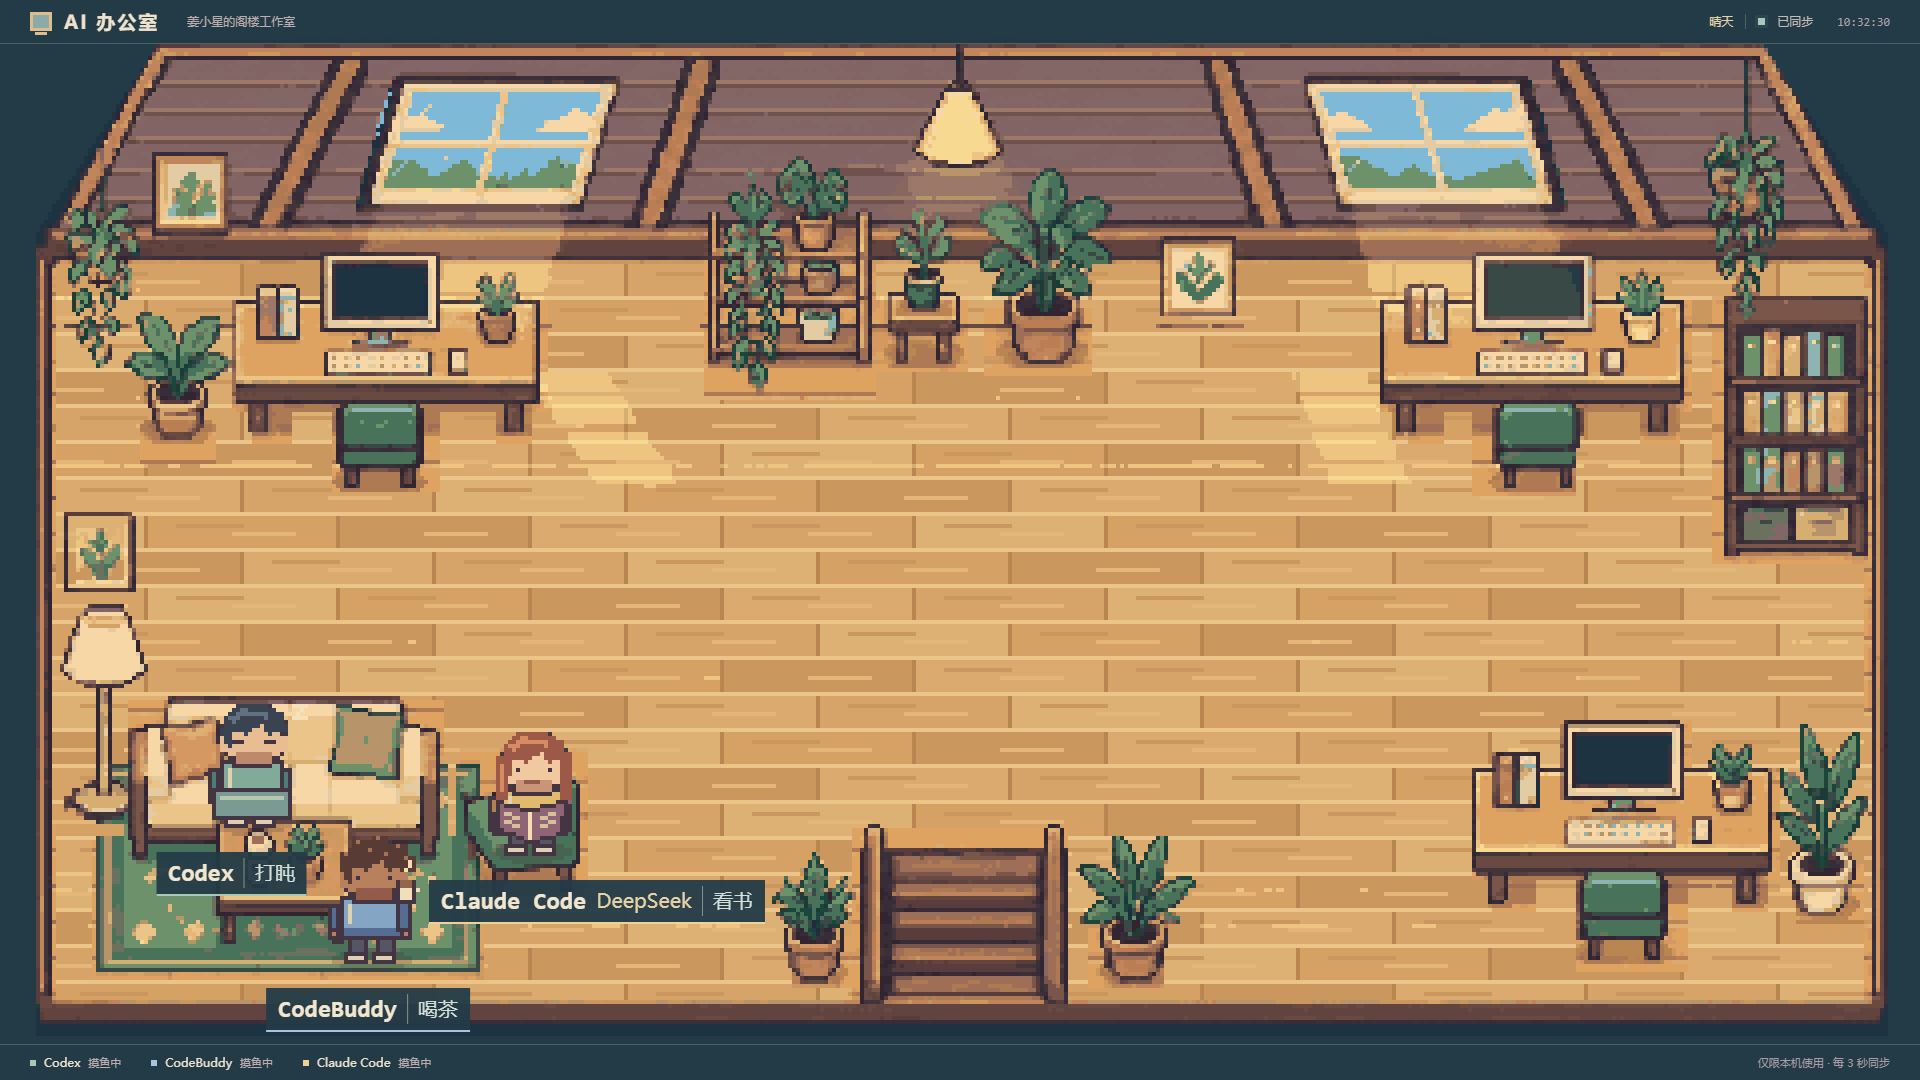
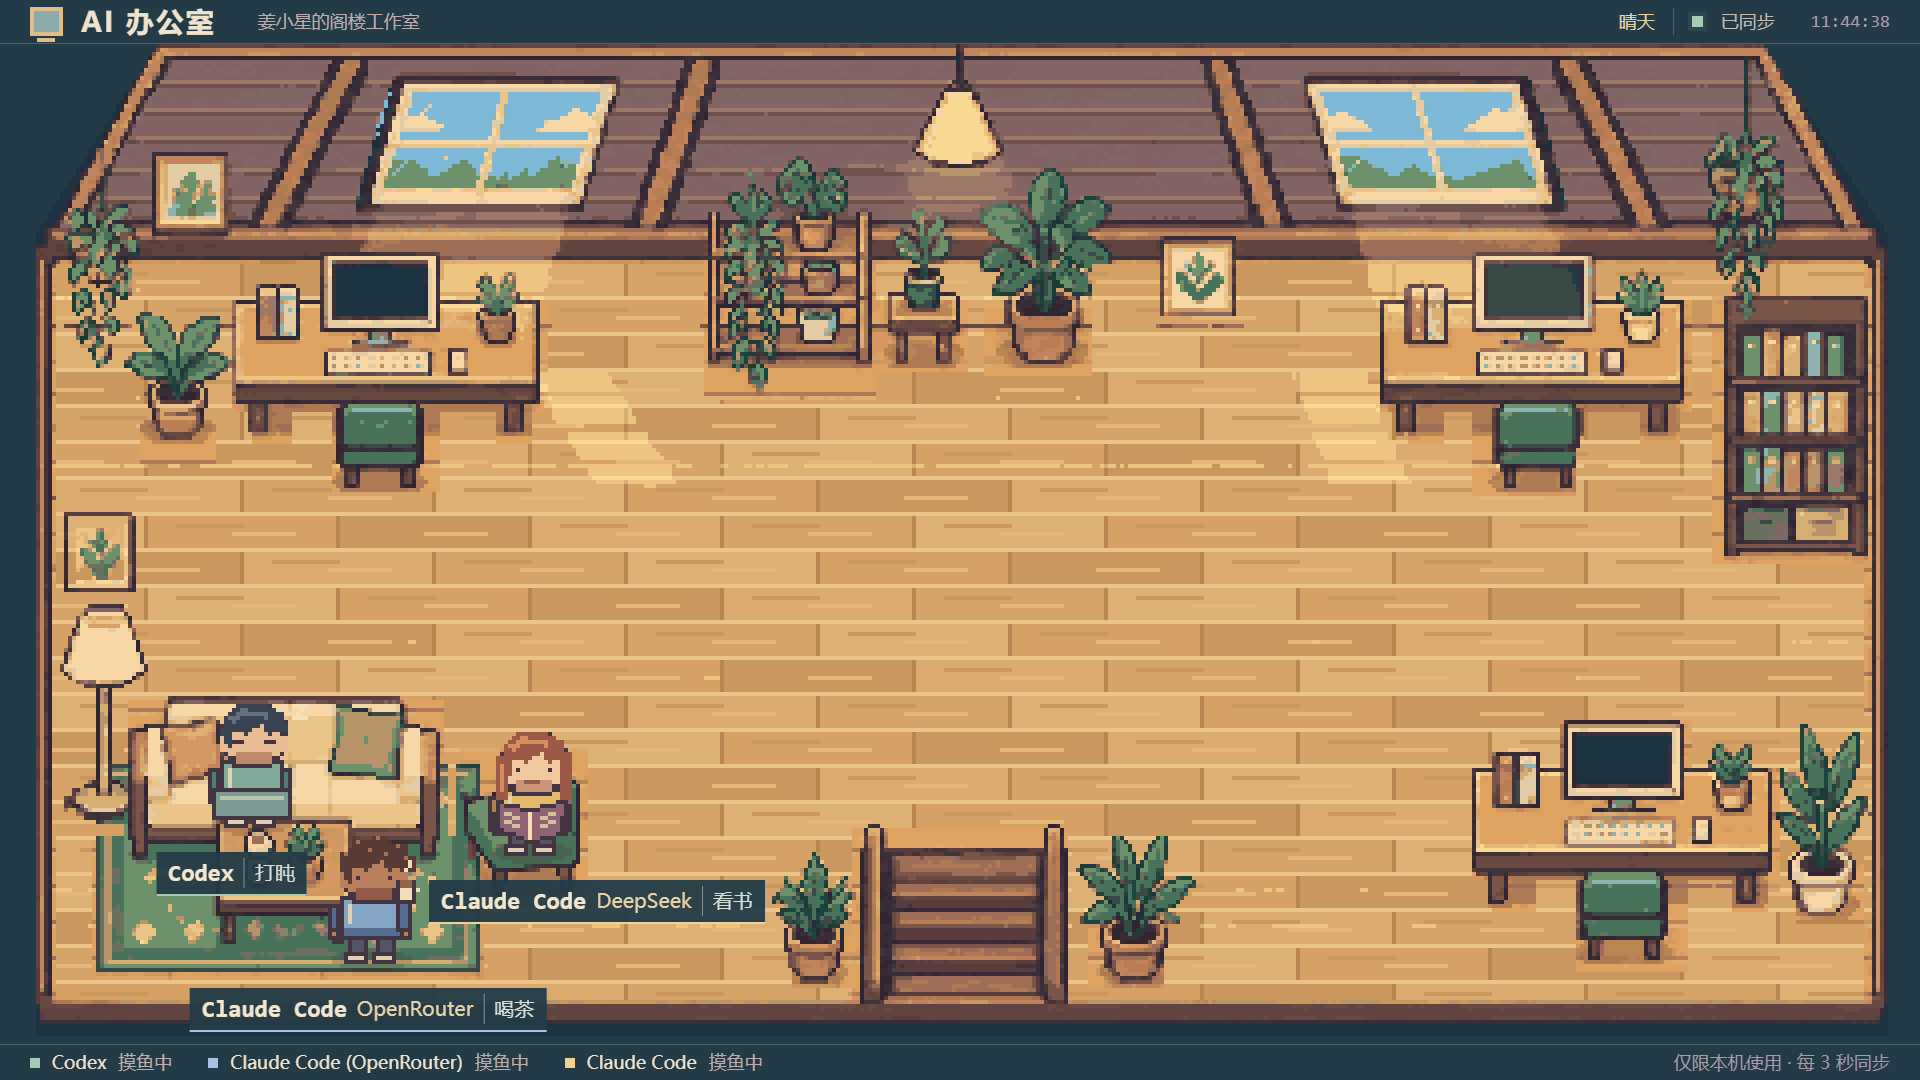
替换 CodeBuddy 角色并独立识别 Claude 启动入口
将原蓝衣工位替换为 Claude Code (OpenRouter)，保留 DeepSeek 角色和既有场景。
根据 Claude 自身或祖先进程的 cc-openrouter.cmd、cc-deepseek.cmd 标记分别判断活动，拒绝无标记及冲突归属，不读取启动脚本、环境变量或 API Key。
修复手机底栏长名称溢出，保留原有字号、天气、整数缩放和相对资源路径。
补充检测及浏览器单开、同时运行回归，更新 README 和 1920×1080 交付截图。

验证：9 项检测测试、浏览器各尺寸与 /office/ 回归、天气回归、标签拥挤及 4×4 像素检查通过。

diff --git a/static/office.js b/static/office.js
@@ -11,7 +11,7 @@
   const notice = document.getElementById('notice');
   const DESKS = [
     { id: 'codex', name: 'Codex', sprite: 'moss', color: '#a5cbb7' },
-    { id: 'codebuddy', name: 'CodeBuddy', sprite: 'sky', color: '#a6c4e1' },
+    { id: 'openrouter', name: 'Claude Code', subtitle: 'OpenRouter', rosterName: 'Claude Code (OpenRouter)', sprite: 'sky', color: '#a6c4e1' },
     { id: 'claude-code', name: 'Claude Code', subtitle: 'DeepSeek', sprite: 'sun', color: '#efd296' },
   ];
   const ACTIVITIES = { sleep: '打盹', read: '看书', tea: '喝茶', type: '敲键盘', walk: '走动' };
@@ -37,7 +37,7 @@
       ...ROOM,
       desks: [
         { id: 'codex', seat: { x: 96, y: 118 }, screen: { x: 84, y: 66, w: 23, h: 13 } },
-        { id: 'codebuddy', seat: { x: 384, y: 118 }, screen: { x: 372, y: 66, w: 23, h: 13 } },
+        { id: 'openrouter', seat: { x: 384, y: 118 }, screen: { x: 372, y: 66, w: 23, h: 13 } },
         { id: 'claude-code', seat: { x: 406, y: 237 }, screen: { x: 394, y: 184, w: 23, h: 13 } },
       ],
       blocks: [
@@ -240,7 +240,7 @@
     for(const a of actors) {
       const el=document.createElement('span');el.className='agent-status';el.style.setProperty('--agent-color',a.color);
       const dot=document.createElement('i'),name=document.createElement('span'),state=document.createElement('em');
-      name.textContent=a.name;state.textContent=a.requested===null?'连接中':a.requested==='working'?'干活中':'摸鱼中';
+      name.textContent=a.rosterName||a.name;state.textContent=a.requested===null?'连接中':a.requested==='working'?'干活中':'摸鱼中';
       el.append(dot,name,state);roster.append(el);
     }
     canvas.setAttribute('aria-label',`${weather?.snapshot().name||''}阁楼；`+actors.map(a=>`${a.name}${a.subtitle||''}：${a.requested==='working'?'干活中':'摸鱼中'}`).join('；'));

diff --git a/static/office.css b/static/office.css
@@ -51,6 +51,7 @@ h1 { margin: 0; font-size: 28px; line-height: 36px; font-weight: 700; white-spac
   .connection { flex-wrap: wrap; }
   h1 { font-size: 24px; line-height: 32px; }
   #roster { width: 100%; }
+  .agent-status { flex-wrap: wrap; row-gap: 0; max-width: 100%; }
   .nameplate { gap: 5px; padding: 3px 6px; line-height: 22px; }
   .nameplate strong { font-size: 16px; }
   .nameplate small, .nameplate span { font-size: 14px; }

diff --git a/tests/test_detectors.py b/tests/test_detectors.py
@@ -8,7 +8,7 @@ import time
 import unittest
 import urllib.request
 from pathlib import Path
-from unittest.mock import patch
+from unittest.mock import Mock, patch
 
 ROOT = Path(__file__).resolve().parents[1]
 sys.path.insert(0, str(ROOT))
@@ -29,16 +29,63 @@ class DetectorTests(unittest.TestCase):
         self.assertTrue(self.processes(0, {"name": "CODEX.EXE", "command": "codex --model local"}))
         self.assertFalse(self.processes(0, {"name": "other.exe", "command": "codex"}))
 
-    def test_codebuddy_requires_matching_process_and_all_arguments(self):
-        self.assertTrue(self.processes(1, {"name": "node.exe", "command": r"D:\npm\codebuddy-code\bin\codebuddy"}))
-        self.assertFalse(self.processes(1, {"name": "node.exe", "command": "unrelated-web-server"}))
-        self.assertFalse(self.processes(1, {"name": "node.exe", "command": "codebuddy-code readme"}))
-        self.assertTrue(self.processes(1, {"name": "codebuddy.exe", "command": "codebuddy"}))
+    def status_for(self, *items):
+        processes = [Mock(info={"pid": pid, "ppid": ppid, "name": name, "cmdline": command,
+                                "create_time": created})
+                     for pid, ppid, name, command, created in items]
+        with patch("detectors.psutil.process_iter", return_value=processes) as snapshot:
+            payload = detect_status(self.tools[1:])
+        self.assertEqual(set(snapshot.call_args.kwargs["attrs"]),
+                         {"pid", "ppid", "name", "cmdline", "create_time"})
+        self.assertEqual(set(payload), {"ts", "agents"})
+        self.assertTrue(all(set(a) == {"id", "name", "status"} for a in payload["agents"]))
+        return {a["id"]: a["status"] for a in payload["agents"]}
 
-    def test_claude_native_and_node_variants(self):
-        self.assertTrue(self.processes(2, {"name": "claude.exe", "command": "claude"}))
-        self.assertTrue(self.processes(2, {"name": "node.exe", "command": "@anthropic-ai/claude-code/cli.js"}))
-        self.assertFalse(self.processes(2, {"name": "node.exe", "command": "other/claude-code.js"}))
+    @staticmethod
+    def session(provider, base=100, native=True):
+        return [(base, 0, "cmd.exe", ["cmd.exe", "/c", rf"D:\Tools\ClaudeCode\cc-{provider}.cmd"], 1),
+                (base+1, base, "claude.exe" if native else "node.exe",
+                 ["claude.exe"] if native else ["node.exe", r"D:\npm\@anthropic-ai\claude-code\cli.js"], 2)]
+
+    def test_deepseek_and_openrouter_native_and_node_sessions_are_independent(self):
+        for native in (True, False):
+            for provider, active_id in (("deepseek", "claude-code"), ("openrouter", "openrouter")):
+                with self.subTest(provider=provider, native=native):
+                    state = self.status_for(*self.session(provider, native=native))
+                    self.assertEqual(state, {tool: "working" if tool == active_id else "idle"
+                                             for tool in ("openrouter", "claude-code")})
+            self.assertEqual(self.status_for(*self.session("deepseek", native=native),
+                                             *self.session("openrouter", base=200, native=native)),
+                             {"openrouter": "working", "claude-code": "working"})
+
+    def test_unmarked_claude_and_launcher_without_cli_are_idle(self):
+        idle = {"openrouter": "idle", "claude-code": "idle"}
+        self.assertEqual(self.status_for(), idle)
+        self.assertEqual(self.status_for((1, 0, "claude.exe", ["claude.exe"], 1)), idle)
+        self.assertEqual(self.status_for(self.session("openrouter")[0]), idle)
+        self.assertEqual(self.status_for((1, 0, "codebuddy.exe", ["codebuddy"], 1)), idle)
+        self.assertEqual(self.status_for((1, 0, "node.exe", ["other/claude-code.js", "cc-openrouter.cmd"], 1)), idle)
+
+    def test_ancestor_markers_direct_markers_and_nearest_context(self):
+        expected = {"openrouter": "working", "claude-code": "idle"}
+        self.assertEqual(self.status_for((3, 0, "CLAUDE.EXE", ["claude", "CC-OPENROUTER.CMD"], 1)), expected)
+        wrapper, cli = self.session("openrouter")
+        self.assertEqual(self.status_for(wrapper, (150, 100, "cmd.exe", ["cmd", "/c", "claude"], 1.5),
+                                        (cli[0], 150, *cli[2:])), expected)
+        self.assertEqual(self.status_for((99, 0, "cmd.exe", ["cc-deepseek.cmd"], 0),
+                                        (100, 99, *wrapper[2:]), cli), expected)
+
+    def test_ambiguous_markers_missing_ancestors_cycles_and_pid_reuse_fail_closed(self):
+        idle = {"openrouter": "idle", "claude-code": "idle"}
+        for wrapper in (["cc-openrouter.cmd", "cc-deepseek.cmd"], ["cc-openrouter.cmd.bak"],
+                        ["not-cc-openrouter.cmd"], ["cc-openrouter.cmd-other"]):
+            self.assertEqual(self.status_for((100, 0, "cmd.exe", wrapper, 1),
+                                            self.session("openrouter")[1]), idle)
+        self.assertEqual(self.status_for(self.session("openrouter")[1]), idle)
+        self.assertEqual(self.status_for((1, 2, "claude.exe", ["claude"], 1),
+                                        (2, 1, "cmd.exe", ["cmd"], 1)), idle)
+        self.assertEqual(self.status_for((100, 0, "cmd.exe", ["cc-openrouter.cmd"], 3),
+                                        self.session("openrouter")[1]), idle)
 
     def test_recent_file_window_date_rollover_and_future_mtime(self):
         temp_root = ROOT / ".browser-tmp"
@@ -62,7 +109,8 @@ class DetectorTests(unittest.TestCase):
         temp_root.mkdir(exist_ok=True)
         with tempfile.TemporaryDirectory(dir=temp_root) as directory:
             file = Path(directory) / "tools.json"
-            for rules in ([{"type": "unknown"}], [{"type": "process", "names": []}]):
+            for rules in ([{"type": "unknown"}], [{"type": "process", "names": []}],
+                          [{"type": "claude_session"}], [{"type": "claude_session", "provider": "other"}]):
                 file.write_text(json.dumps({"tools": [{"id": "test", "name": "Test", "rules": rules}]}))
                 with self.assertRaises(ValueError):
                     load_tools(file)
@@ -72,9 +120,12 @@ class DetectorTests(unittest.TestCase):
 
     def test_status_never_exposes_process_commands(self):
         tool = {"id": "test", "name": "Test", "rules": [{"type": "process", "names": ["test.exe"]}]}
-        with patch("detectors.psutil.process_iter", return_value=[]):
+        process = Mock(info={"pid": 1, "ppid": 0, "name": "test.exe",
+                             "cmdline": ["test.exe", "private-argument"], "create_time": 1})
+        with patch("detectors.psutil.process_iter", return_value=[process]):
             payload = detect_status([tool])
-        self.assertEqual(payload["agents"], [{"id": "test", "name": "Test", "status": "idle"}])
+        self.assertEqual(payload["agents"], [{"id": "test", "name": "Test", "status": "working"}])
+        self.assertNotIn("private-argument", json.dumps(payload))
         self.assertEqual(set(payload), {"ts", "agents"})
 
     def test_live_independent_local_api(self):

diff --git a/detectors.py b/detectors.py
@@ -6,10 +6,52 @@ here when a future tool offers a stronger activity signal.
 """
 import datetime
 import json
+import re
 import time
 from pathlib import Path
 
 import psutil
+
+
+CLAUDE_PROVIDERS = {"deepseek", "openrouter"}
+CLAUDE_LAUNCHER = re.compile(r'''(?:^|[/\s"'])cc-(deepseek|openrouter)\.cmd(?=$|[\s"'&|<>])''')
+
+
+def claude_session(rule, processes, now):
+    """Identify each Claude CLI by its nearest launch context, never by name alone.
+
+    Only inspect command lines already in the local process snapshot. Do not read
+    launcher contents, environment variables or credentials. A wrapper without a
+    live Claude descendant, or an ambiguous/unmarked session, is not activity.
+    """
+    by_pid = {p["pid"]: p for p in processes if p.get("pid") is not None}
+    for process in processes:
+        name = process["name"].lower()
+        command = process["command"].lower().replace("\\", "/")
+        if name not in {"claude.exe", "claude"}:
+            if name not in {"node.exe", "node"} or not re.search(
+                    r"(?:^|/)@anthropic-ai/claude-code/", command):
+                continue
+        current, seen = process, set()
+        for _ in range(32):
+            pid = current.get("pid")
+            if pid is not None and pid in seen:
+                break
+            seen.add(pid)
+            providers = set(CLAUDE_LAUNCHER.findall(current["command"].lower().replace("\\", "/")))
+            if providers:
+                if providers == {rule["provider"]}:
+                    return True
+                break  # Another provider or both markers: never claim this CLI.
+            parent = by_pid.get(current.get("ppid"))
+            if parent is None:
+                break
+            # A reused PID must not attach a surviving CLI to an unrelated shell.
+            if (parent.get("created") is not None and current.get("created") is not None
+                    and parent["created"] > current["created"]):
+                break
+            current = parent
+    return False
 
 
 def process_matches(rule, processes, now):
@@ -47,7 +89,8 @@ def recent_files(rule, processes, now):
 
 
 # Extension point: callable(rule, processes, now) -> bool. Rules within a tool OR together.
-RULE_DETECTORS = {"process": process_matches, "recent_files": recent_files}
+RULE_DETECTORS = {"process": process_matches, "recent_files": recent_files,
+                  "claude_session": claude_session}
 
 
 def load_tools(path):
@@ -64,15 +107,18 @@ def load_tools(path):
                 raise ValueError("Process rules require names")
             if rule["type"] == "recent_files" and not rule.get("root"):
                 raise ValueError("File rules require root")
+            if rule["type"] == "claude_session" and rule.get("provider") not in CLAUDE_PROVIDERS:
+                raise ValueError("Claude session rules require a supported provider")
     return tools
 
 
 def detect_status(tools):
     now = time.time()
     processes = []
-    for process in psutil.process_iter(attrs=["name", "cmdline"]):
+    for process in psutil.process_iter(attrs=["pid", "ppid", "name", "cmdline", "create_time"]):
         try:
-            processes.append({"name": process.info["name"] or "",
+            processes.append({"pid": process.info["pid"], "ppid": process.info["ppid"],
+                              "created": process.info["create_time"], "name": process.info["name"] or "",
                               "command": " ".join(process.info["cmdline"] or [])})
         except (psutil.NoSuchProcess, psutil.AccessDenied):
             continue

diff --git a/tests/provider_scenarios.py b/tests/provider_scenarios.py
@@ -1,0 +1,34 @@
+"""Export detector-derived browser fixtures; no real CLIs or providers are called."""
+import json
+import sys
+from pathlib import Path
+from unittest.mock import Mock, patch
+
+ROOT = Path(__file__).resolve().parents[1]
+sys.path.insert(0, str(ROOT))
+from detectors import detect_status, load_tools
+
+
+def simulate(providers):
+    processes = []
+    for index, provider in enumerate(providers):
+        pid = 100 + index * 10
+        for info in (
+            {"pid": pid, "ppid": 0, "name": "cmd.exe", "create_time": 1,
+             "cmdline": ["cmd.exe", "/c", rf"D:\Tools\ClaudeCode\cc-{provider}.cmd"]},
+            {"pid": pid+1, "ppid": pid, "name": "claude.exe", "create_time": 2,
+             "cmdline": ["claude.exe"]},
+        ):
+            processes.append(Mock(info=info))
+    # Keep Codex idle independently of this machine's actual session files.
+    tools = load_tools(ROOT / "config" / "tools.json")
+    tools[0]["rules"] = [{"type": "process", "names": ["codex.exe"]}]
+    with patch("detectors.psutil.process_iter", return_value=processes):
+        return detect_status(tools)
+
+
+if __name__ == "__main__":
+    print(json.dumps({"deepseek": simulate(["deepseek"]),
+                      "openrouter": simulate(["openrouter"]),
+                      "both": simulate(["deepseek", "openrouter"]),
+                      "idle": simulate([])}))
